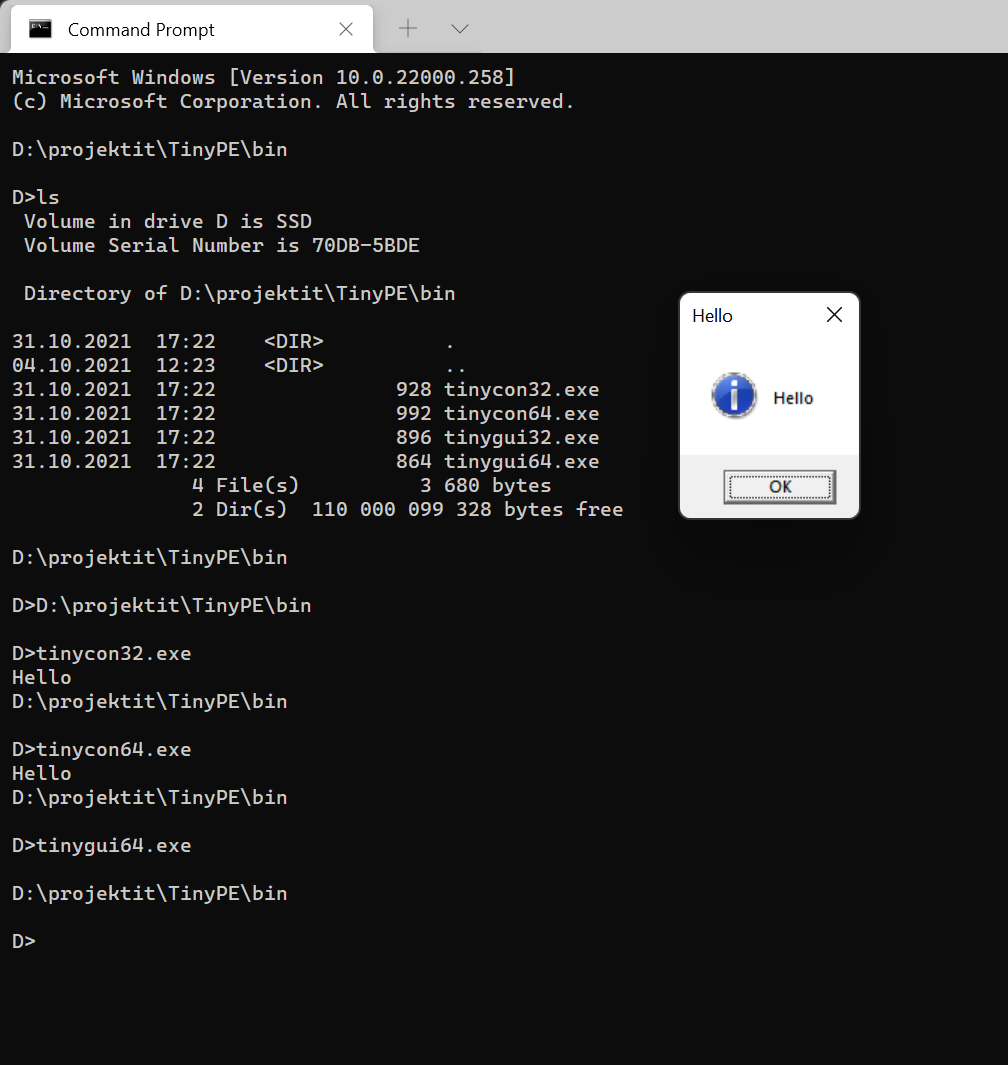
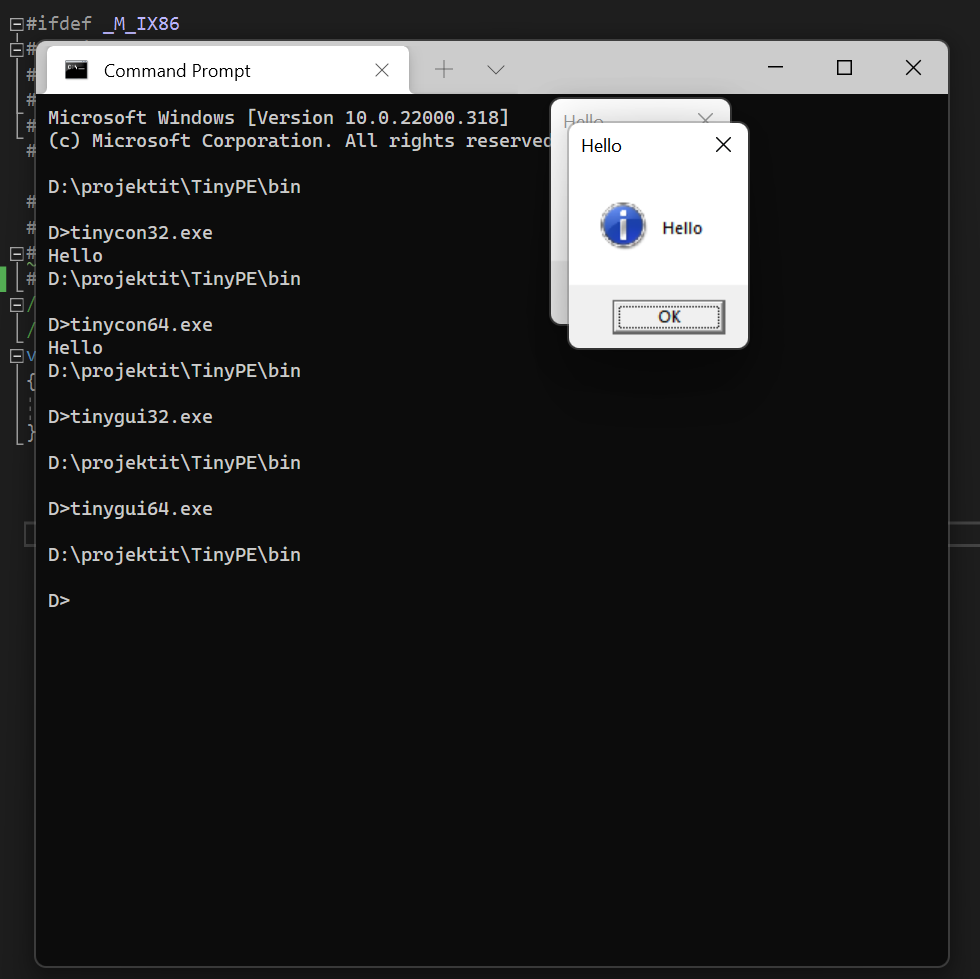
Tested on W11 22000.318

Changed region(s): [[0.0, 0.0, 1.0, 0.8887], [0.0612, 0.9806, 0.949, 1.0], [0.949, 0.5209, 1.0, 0.5516]]

diff --git a/winmain.cpp b/winmain.cpp
@@ -11,7 +11,7 @@
 #define WIN32_LEAN_AND_MEAN
 #define NOMINMAX
 #include <Windows.h>
-
+#include <winnt.h>
 // X64: 864 bytes
 // X86: 896 bytes
 void WinMainCRTStartup()

diff --git a/README.md b/README.md
@@ -8,7 +8,7 @@ POC Tiny PE - Visual Studio 2022 project
 
 
 
-Tested on Windows 11 21H2 (22000.258)
+Tested on Windows 11 21H2 (22000.318)
 
 <img width="595" alt="readme_image" src="readmeimage.png">
 
